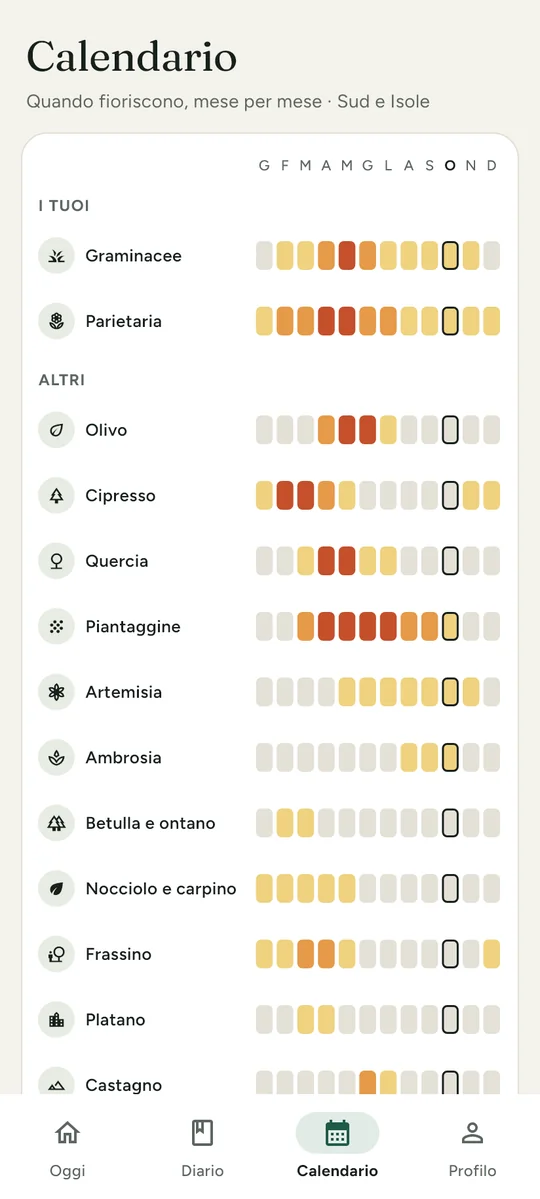
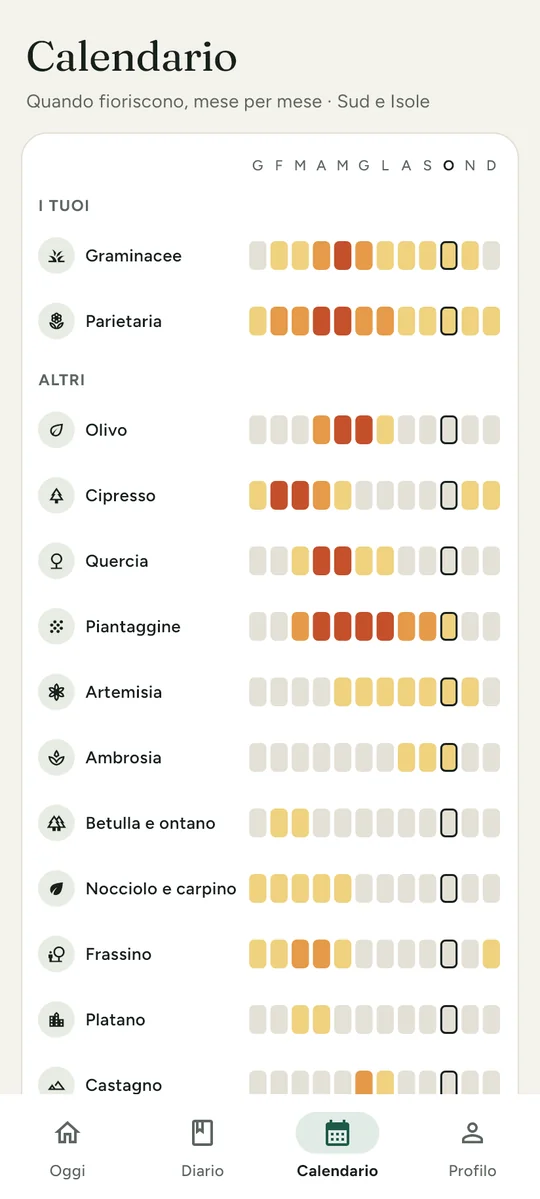
fix: valori troncati alla soglia, periodi di Andamento sempre visibili e nomi del calendario misurati col carattere dell'app

diff --git a/lib/screens/trend_screen.dart b/lib/screens/trend_screen.dart
@@ -54,15 +54,13 @@ class _TrendScreenState extends State<TrendScreen> {
                 ),
             ],
           ),
-          if (diary.entries.length >= DiaryState.minDaysForInsight) ...[
-            const SizedBox(height: 12),
-            SegmentedButton<int>(
-              segments: [for (final e in _periods.entries) ButtonSegment(value: e.key, label: Text(e.value))],
-              selected: {_period},
-              showSelectedIcon: false,
-              onSelectionChanged: (v) => setState(() => _period = v.first),
-            ),
-          ],
+          const SizedBox(height: 12),
+          SegmentedButton<int>(
+            segments: [for (final e in _periods.entries) ButtonSegment(value: e.key, label: Text(e.value))],
+            selected: {_period},
+            showSelectedIcon: false,
+            onSelectionChanged: (v) => setState(() => _period = v.first),
+          ),
           const SizedBox(height: 14),
           if (insight == null)
             _Progress(allergen: a, logged: logged, status: app.snapshot?[a.id])
@@ -173,7 +171,7 @@ class _Answer extends StatelessWidget {
               child: Text(label, style: TextStyle(fontSize: 14, color: p.onHero)),
             ),
             Text(
-              '${Fmt.number(value)} su ${DiaryInsight.maxScore}',
+              '${Fmt.mean(value)} su ${DiaryInsight.maxScore}',
               style: TextStyle(fontSize: 14, fontWeight: FontWeight.w700, color: p.onHero),
             ),
           ],
@@ -277,7 +275,7 @@ class _TrendState extends State<_Trend> {
     if (mean == null) return 'Nessun giorno registrato';
     return [
       '${b.logged} ${b.logged == 1 ? 'giorno registrato' : 'giorni registrati'}',
-      'sintomi in media ${Fmt.number(mean)} su 3',
+      'sintomi in media ${Fmt.mean(mean)} su 3',
       if (pollen != null) '$name fino a ${pollen.label.toLowerCase()}',
     ].join(' · ');
   }

diff --git a/lib/services/report_pdf.dart b/lib/services/report_pdf.dart
@@ -10,6 +10,7 @@ import '../models/level.dart';
 import '../state/diary_state.dart';
 import '../theme/palette.dart';
 import '../utils/days.dart';
+import '../utils/format.dart';
 
 class ReportPdf {
   static const days = 90;
@@ -40,7 +41,6 @@ class ReportPdf {
   static PdfColor _pdf(Color c) => PdfColor.fromInt(c.toARGB32());
   static String _date(DateTime d) => '${d.day} ${_months[d.month - 1]} ${d.year}';
   static String _days(int n) => n == 1 ? '1 giorno' : '$n giorni';
-  static String _num(double v) => v == v.roundToDouble() ? '${v.round()}' : v.toStringAsFixed(1).replaceAll('.', ',');
 
   static Future<Uint8List> build({
     required DiaryState diary,
@@ -195,7 +195,7 @@ class ReportPdf {
               pw.SizedBox(width: 8),
               summary(
                 'Intensità media',
-                avg == null ? '–' : '${_num(avg)} su 3',
+                avg == null ? '–' : '${Fmt.mean(avg)} su 3',
                 avg == null ? 'nessuna voce' : _symptom[avg.round()],
               ),
               pw.SizedBox(width: 8),
@@ -235,8 +235,8 @@ class ReportPdf {
                       ),
                       pw.TextSpan(
                         text:
-                            'punteggio sintomi + farmaci ${_num(i.highMean)} su ${DiaryInsight.maxScore} nei giorni '
-                            'sopra la soglia personale (${_days(i.highDays)}), ${_num(i.lowMean)} negli altri '
+                            'punteggio sintomi + farmaci ${Fmt.mean(i.highMean)} su ${DiaryInsight.maxScore} nei giorni '
+                            'sopra la soglia personale (${_days(i.highDays)}), ${Fmt.mean(i.lowMean)} negli altri '
                             '(${_days(i.lowDays)}).',
                       ),
                     ],

diff --git a/test/format_test.dart b/test/format_test.dart
@@ -2,14 +2,21 @@ import 'package:allergy_radar/utils/format.dart';
 import 'package:flutter_test/flutter_test.dart';
 
 void main() {
-  test('i numeri dei granuli: niente «0,0», una cifra decimale solo se serve', () {
+  test('i numeri dei granuli: troncati, mai sopra la soglia del livello mostrato', () {
     expect(Fmt.number(0), '0');
-    expect(Fmt.number(0.03), '0');
-    expect(Fmt.number(0.06), '0,1');
-    expect(Fmt.number(2.96), '3');
+    expect(Fmt.number(0.07), '0', reason: 'sotto la soglia di 0,1 resta 0, non 0,1');
+    expect(Fmt.number(0.1), '0,1');
+    expect(Fmt.number(2.96), '2,9');
     expect(Fmt.number(7.04), '7');
-    expect(Fmt.number(7.25), '7,3');
-    expect(Fmt.number(9.97), '10');
+    expect(Fmt.number(7.25), '7,2');
+    expect(Fmt.number(9.97), '9,9', reason: 'sotto la soglia di 10 non diventa 10');
+    expect(Fmt.number(29.9), '29');
     expect(Fmt.number(73.4), '73');
+  });
+
+  test('le medie si arrotondano', () {
+    expect(Fmt.mean(2.25), '2,3');
+    expect(Fmt.mean(1.96), '2');
+    expect(Fmt.mean(0), '0');
   });
 }

diff --git a/lib/utils/format.dart b/lib/utils/format.dart
@@ -32,9 +32,14 @@ abstract final class Fmt {
   static String time(DateTime d) => '${d.hour.toString().padLeft(2, '0')}:${d.minute.toString().padLeft(2, '0')}';
 
   static String number(double v) {
-    final tenth = (v * 10).round() / 10;
-    if (v >= 10 || tenth == tenth.roundToDouble()) return v.round().toString();
+    final tenth = (v * 10).floor() / 10;
+    if (v >= 10 || tenth == tenth.roundToDouble()) return v.floor().toString();
     return tenth.toStringAsFixed(1).replaceAll('.', ',');
+  }
+
+  static String mean(double v) {
+    final tenth = (v * 10).round() / 10;
+    return tenth == tenth.roundToDouble() ? tenth.round().toString() : tenth.toStringAsFixed(1).replaceAll('.', ',');
   }
 
   static String grains(double v) => '${number(v)} granuli/m³';

diff --git a/lib/screens/calendar_screen.dart b/lib/screens/calendar_screen.dart
@@ -23,7 +23,7 @@ class CalendarScreen extends StatelessWidget {
     final others = Allergens.all.where((a) => !state.followed.contains(a.id)).toList();
     const nameStyle = TextStyle(fontSize: 13, fontWeight: FontWeight.w600);
     final nameWidth = (36 + widestText(context, Allergens.all.map((a) => a.name), nameStyle) + 8)
-        .clamp(0, MediaQuery.sizeOf(context).width * 0.4)
+        .clamp(0, MediaQuery.sizeOf(context).width * 0.45)
         .toDouble();
 
     Widget header() => Row(

diff --git a/lib/widgets/air_sheet.dart b/lib/widgets/air_sheet.dart
@@ -96,7 +96,7 @@ class AirSheet extends StatelessWidget {
                   const SizedBox(width: 12),
                   Expanded(
                     child: Text(
-                      '${metric.statLabel}: ${v.round()} ${AirMetric.unit}',
+                      '${metric.statLabel}: ${v.floor()} ${AirMetric.unit}',
                       style: TextStyle(fontSize: 13, color: p.ink2),
                     ),
                   ),

diff --git a/lib/widgets/level_widgets.dart b/lib/widgets/level_widgets.dart
@@ -8,7 +8,7 @@ double widestText(BuildContext context, Iterable<String> texts, TextStyle style)
   var widest = 0.0;
   for (final t in texts) {
     final painter = TextPainter(
-      text: TextSpan(text: t, style: style),
+      text: TextSpan(text: t, style: DefaultTextStyle.of(context).style.merge(style)),
       textDirection: TextDirection.ltr,
       textScaler: MediaQuery.textScalerOf(context),
     )..layout();

diff --git a/lib/screens/today_screen.dart b/lib/screens/today_screen.dart
@@ -550,7 +550,7 @@ class _Air extends StatelessWidget {
                   ),
                   const SizedBox(height: 6),
                   Text(
-                    v == null ? '' : '${v.round()} ${AirMetric.unit}',
+                    v == null ? '' : '${v.floor()} ${AirMetric.unit}',
                     style: TextStyle(fontSize: 12, color: p.ink2),
                   ),
                 ],
